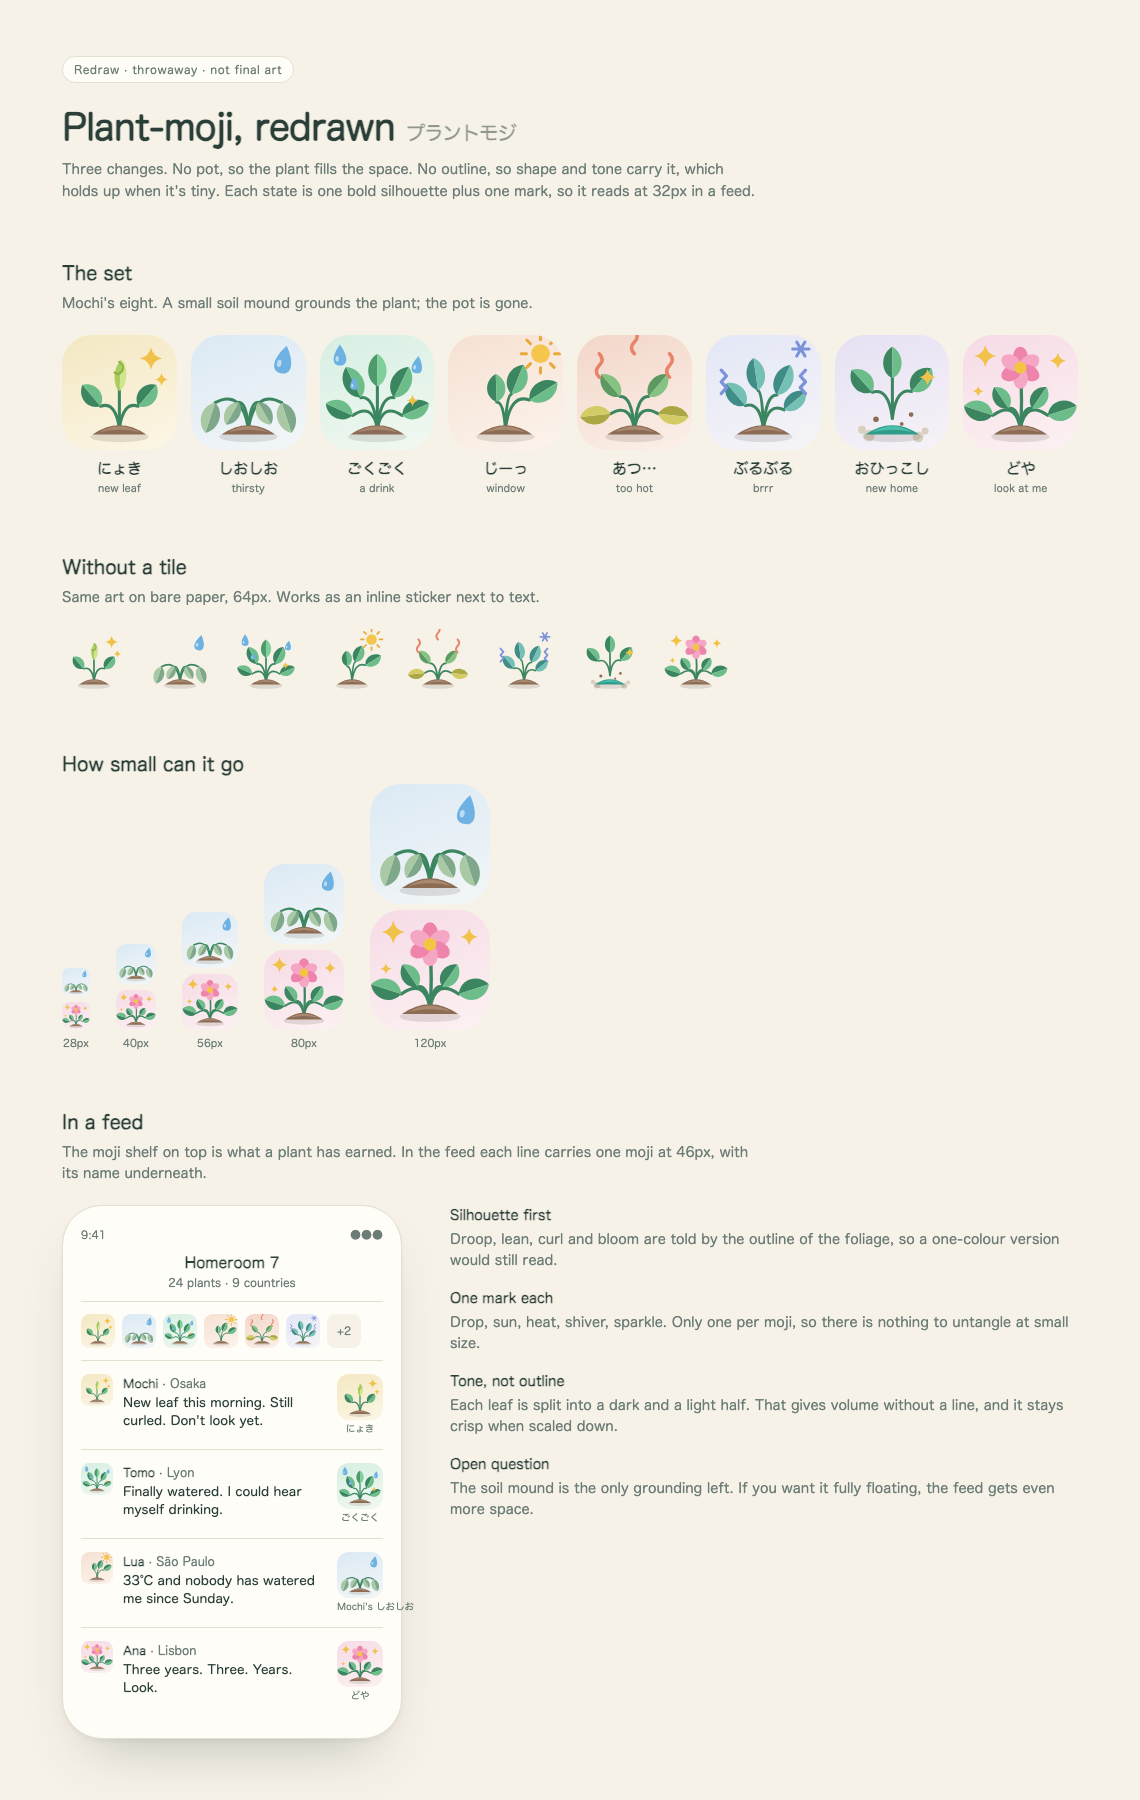
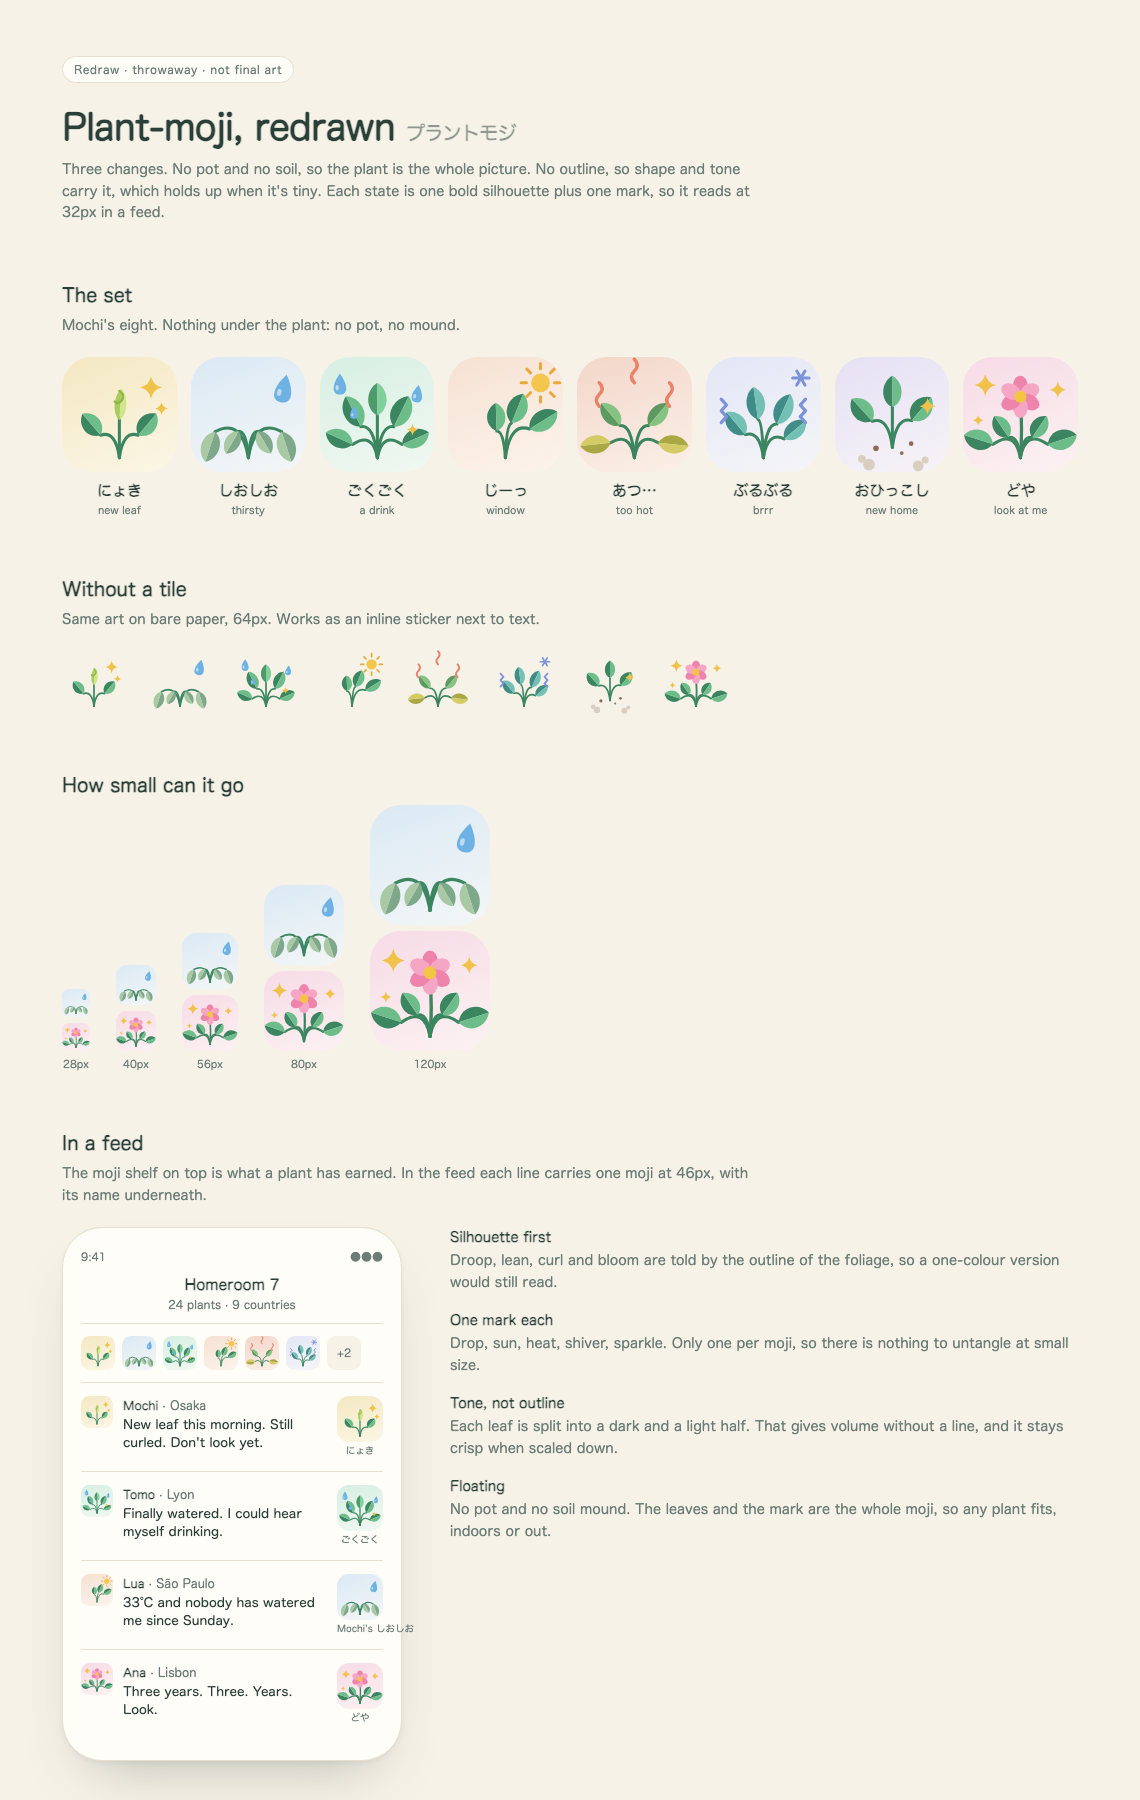
docs(vault): redraw plant-moji floating, drop the potted sleek sketch

diff --git a/mockups/plant-moji/plant-moji-redraw.html b/mockups/plant-moji/plant-moji-redraw.html
@@ -3,7 +3,7 @@
 <head>
 <meta charset="utf-8">
 <meta name="viewport" content="width=device-width, initial-scale=1">
-<title>Plant-moji — redraw: potless, feed-sized (throwaway)</title>
+<title>Plant-moji — redraw: floating, feed-sized (throwaway)</title>
 <style>
   :root { --ink:#2a3f38; --soft:#6b7d76; --paper:#f7f2e8; --card:#fffdf8; --line:#e6dfd0; --accent:#5b45d6; }
   * { box-sizing:border-box; }
@@ -55,10 +55,10 @@
 <main>
   <span class="tag">Redraw · throwaway · not final art</span>
   <h1>Plant-moji, redrawn <span style="font-size:19px;opacity:.5">プラントモジ</span></h1>
-  <p class="sub">Three changes. No pot, so the plant fills the space. No outline, so shape and tone carry it, which holds up when it's tiny. Each state is one bold silhouette plus one mark, so it reads at 32px in a feed.</p>
+  <p class="sub">Three changes. No pot and no soil, so the plant is the whole picture. No outline, so shape and tone carry it, which holds up when it's tiny. Each state is one bold silhouette plus one mark, so it reads at 32px in a feed.</p>
 
   <h2>The set</h2>
-  <p class="sub">Mochi's eight. A small soil mound grounds the plant; the pot is gone.</p>
+  <p class="sub">Mochi's eight. Nothing under the plant: no pot, no mound.</p>
   <div class="big" id="big"></div>
 
   <h2>Without a tile</h2>
@@ -81,7 +81,7 @@
       <div><b>Silhouette first</b>Droop, lean, curl and bloom are told by the outline of the foliage, so a one-colour version would still read.</div>
       <div><b>One mark each</b>Drop, sun, heat, shiver, sparkle. Only one per moji, so there is nothing to untangle at small size.</div>
       <div><b>Tone, not outline</b>Each leaf is split into a dark and a light half. That gives volume without a line, and it stays crisp when scaled down.</div>
-      <div><b>Open question</b>The soil mound is the only grounding left. If you want it fully floating, the feed gets even more space.</div>
+      <div><b>Floating</b>No pot and no soil mound. The leaves and the mark are the whole moji, so any plant fits, indoors or out.</div>
     </div>
   </div>
 </main>
@@ -103,12 +103,9 @@ function sprig(ang, reach, rot, len, w, dk, lt) {
   return { stem: `<path d="M${O[0]} ${O[1]} Q${cx.toFixed(1)} ${cy.toFixed(1)} ${ex.toFixed(1)} ${ey.toFixed(1)}" fill="none" stroke="${STEM}" stroke-width="2.6" stroke-linecap="round"/>`,
            leaf: leaf(ex, ey, rot, len, w, dk, lt) };
 }
-const mound = (c1 = '#8c6c55', c2 = '#a98a70') =>
-  `<ellipse cx="50" cy="91" rx="25" ry="4.5" fill="rgba(60,50,40,.13)"/>
-   <path d="M27 89 Q50 73 73 89Z" fill="${c1}"/><path d="M33 87 Q50 77 67 87 Q50 83 33 87Z" fill="${c2}"/>`;
 function plant(list, o = {}) {
   const parts = list.map(a => sprig(...a));
-  return `<g transform="translate(0 ${o.dy || 0})">${parts.map(p => p.stem).join('')}${parts.map(p => p.leaf).join('')}</g>` + (o.nomound ? '' : mound());
+  return `<g transform="translate(0 ${o.dy || 0})">${parts.map(p => p.stem).join('')}${parts.map(p => p.leaf).join('')}</g>`;
 }
 
 const sparkle = (x, y, s = 1, c = '#f1c24a') => `<path transform="translate(${x} ${y}) scale(${s})" d="M0 -10 Q1.6 -1.6 10 0 Q1.6 1.6 0 10 Q-1.6 1.6 -10 0 Q-1.6 -1.6 0 -10Z" fill="${c}"/>`;
@@ -129,7 +126,7 @@ const G = {
       `<path d="M50 84 L50 50" stroke="${STEM}" stroke-width="2.6" stroke-linecap="round"/>` +
       leaf(50, 52, 4, 27, 7, '#a9cc5e', '#cfe58a') +
       `<path d="M50 27 q5 3 2 8 q-3 4 -6 1" fill="none" stroke="#8fb44a" stroke-width="2" stroke-linecap="round"/>` +
-      mound() + sparkle(77, 24, .95) + sparkle(86, 42, .55);
+      sparkle(77, 24, .95) + sparkle(86, 42, .55);
   },
   shio: () => {
     const d1 = '#7fa88a', l1 = '#a9c8a4';
@@ -146,17 +143,17 @@ const G = {
     const p = [sprig(-38, 28, -42, 26, 12), sprig(0, 34, 0, 27, 11), sprig(36, 28, 40, 26, 12)];
     return `<g transform="translate(0 -9)">${p.map(a => a.stem).join('')}${p.map(a => a.leaf).join('')}</g>` +
       puff(30, 90, 5) + puff(24, 85, 3.4) + puff(72, 91, 4.6) + puff(78, 86, 3) +
-      speck(36, 76, 2.4) + speck(66, 72, 2) + speck(58, 80, 1.6) + mound('#2f9c8a', '#4cc0ac') + sparkle(80, 40, .7);
+      speck(36, 76, 2.4) + speck(66, 72, 2) + speck(58, 80, 1.6) + sparkle(80, 40, .7);
   },
   doya: () => {
     const p = [sprig(-64, 26, -72, 26, 12), sprig(64, 26, 72, 26, 12), sprig(-30, 20, -34, 22, 10), sprig(30, 20, 34, 22, 10)];
     let f = `<path d="M50 84 Q52 60 50 38" fill="none" stroke="${STEM}" stroke-width="2.8" stroke-linecap="round"/>`;
     for (let k = 0; k < 6; k++) f += `<ellipse transform="rotate(${k * 60} 50 32) translate(0 -9)" cx="50" cy="32" rx="6.4" ry="9" fill="${k % 2 ? '#f5a6c4' : '#ee83ac'}"/>`;
     f += `<circle cx="50" cy="32" r="5.2" fill="#f4c542"/>`;
-    return p.map(a => a.stem).join('') + p.map(a => a.leaf).join('') + f + mound() + sparkle(20, 22, .95) + sparkle(82, 26, .7) + sparkle(14, 52, .45);
+    return p.map(a => a.stem).join('') + p.map(a => a.leaf).join('') + f + sparkle(20, 22, .95) + sparkle(82, 26, .7) + sparkle(14, 52, .45);
   },
 };
-const svg = k => `<svg viewBox="1 4 98 98" xmlns="http://www.w3.org/2000/svg">${G[k]()}</svg>`;
+const svg = k => `<svg viewBox="1 -2 98 98" xmlns="http://www.w3.org/2000/svg">${G[k]()}</svg>`;
 const BG = { nyoki:'#f4e8c2', shio:'#dbe9f4', goku:'#d7efe3', jii:'#f6e1d3', atsu:'#f3d6c9', buru:'#e3e6f6', hikko:'#e6e0f4', doya:'#f6dbe6' };
 const NAMES = { nyoki:['にょき','new leaf'], shio:['しおしお','thirsty'], goku:['ごくごく','a drink'], jii:['じーっ','window'], atsu:['あつ…','too hot'], buru:['ぶるぶる','brrr'], hikko:['おひっこし','new home'], doya:['どや','look at me'] };
 const tile = (k, extra = '') => `<div class="tile" style="background:linear-gradient(160deg,${BG[k]},#fffdf8 150%);${extra}">${svg(k)}</div>`;

diff --git a/vault/log/2026-10-23.md b/vault/log/2026-10-23.md
@@ -1,8 +1,8 @@
 # 2026-10-23
 
 - UI direction: user likes Ahead (Mobbin, iOS) as a cute base but wants it sleeker to match plant-moji. Mobbin blocked in the in-app browser (403); reached it via the logged-in Android emulator, but the free tier shows only 2 of 224 screens, so the read is a direction only. Captures in `mockups/ahead-ref/`.
-- Built `mockups/plant-moji/plant-moji-sleek.html` (+ `.png`): before/after, Mochi's full set, and three app screens (welcome, Homeroom chat, moji page). Changes vs current: 1.6px ink-green line instead of 2.5px black + white halo, soft shadow instead of hard offset, ~⅓ less saturated fills, one indigo accent for actions only.
+- Built a sleek sketch page (not kept, it had pots): before/after, Mochi's full set, and three app screens (welcome, Homeroom chat, moji page). Changes vs current: 1.6px ink-green line instead of 2.5px black + white halo, soft shadow instead of hard offset, ~⅓ less saturated fills, one indigo accent for actions only.
 - Design-system tool: user wants Paper (paper.design). No Paper connector available in this session; needs the Paper MCP connected before anything can be built there.
 - Wireframe gate (P0 first) unchanged; these are direction sketches, not wireframes.
 - User feedback on the sleek page: "very basic"; plant-moji should be smaller in a feed; pot could go to save space. Redrew the set as `mockups/plant-moji/plant-moji-redraw.html`: no pot (small soil mound), no outline (two-tone leaves), one silhouette + one mark per moji, tested 28–120px and in a Homeroom feed (46px moji per line, moji shelf on top). Open question: fully floating (no mound)?
-- Decision: no pot and no soil mound. The moji floats (leaf plus mark only). Recorded as decision 7 in [[plant-moji]]. The redraw still shows a mound; redrawing it floating is the follow-up.
+- Decision: no pot and no soil mound. The moji floats (leaf plus mark only). Recorded as decision 7 in [[plant-moji]]. The redraw was redone floating (no mound). The potted sleek page was not kept in the repo.

diff --git a/vault/features/plant-moji.md b/vault/features/plant-moji.md
@@ -15,7 +15,7 @@ Serves [[every-plant-has-a-past]] · Principles: [[principles]] · Voice: [[plan
 
 **The moment:** Mochi goes a week without water, then gets a drink. That evening a bowing-leaf "grateful" moji appears in Mochi's set. The next morning Lua in São Paulo uses it in the homeroom, and Mochi's owner sees "used in São Paulo today".
 
-Sketches (throwaway, not final art): `mockups/plant-moji/plant-moji-leaf.html` is the chosen direction; `plant-moji-samples.html` is the earlier potted version. `plant-moji-sleek.html` and `plant-moji-redraw.html` (2026-10-23) explore a quieter line style; they still show a small soil mound, which decision 7 removes.
+Sketches (throwaway, not final art): `mockups/plant-moji/plant-moji-leaf.html` is the chosen direction; `plant-moji-samples.html` is the earlier potted version. `plant-moji-redraw.html` (2026-10-23) is the current floating version: no pot, no mound, no outline.
 
 ## Why this is different
 Searched 2026-10-12; add these to [[competitive-landscape]] when that note is next edited.
@@ -33,7 +33,7 @@ What only we can do: the events come from the same pipeline as [[plant-voice]], 
 4. **A moji belongs to one plant** (user, 2026-10-12). The leaf outline is the identity: heart for a pothos, holes for a monstera, a fan for a ginkgo.
 5. **Much simpler than the first sketch** (user, 2026-10-13). It must still read at chat size.
 6. **Owners earn sunlight points** (user, 2026-10-13). Option A in the Earning section is the v1 model.
-7. **No pot and no soil mound** (user, 2026-10-23). A pot "looks lame and isn't directly relevant to the plant". The moji floats: leaf plus mark only. This reaffirms decision 1 and answers the open question from the redraw.
+7. **No pot and no soil mound** (user, 2026-10-23). A pot "looks lame and isn't directly relevant to the plant". The moji floats: leaf plus mark only. This reaffirms decision 1.
 
 Proposed, not yet confirmed by the user:
 - Each feeling is **earned from a real event**, never picked from a menu.
